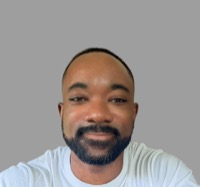
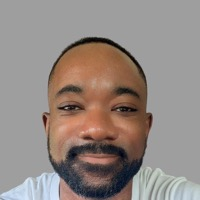
Tighten header spacing and zoom in on headshot
Headshot: re-cropped from the high-res 960x900 original (kept in
/tmp during this session) to the central 700x700 region, then
resized to 200x200. Effective ~30% zoom-in vs the previous frame,
so the face fills more of the rounded-circle visible area. File
size: 8.2KB.

Header CSS:
- .header padding 30px -> 20px (top/bottom)
- .header .btn margin-top 60px -> 24px (the buttons were sitting
  way too far below the social icons)
- .name margin-top 30px -> 0 (name now aligns with image top)
- .desc margin-bottom 15px -> 8px
- .desc1 margin-bottom 15px -> 6px (saves ~27px across the three
  stacked desc1 lines that were the biggest spacing offenders)

Note: .desc1 was already only present in styles.css and absent
from the SCSS source (pre-existing drift, predates this work).
This commit does not widen the gap; Phase 2 will reconcile the
SCSS↔CSS pipeline as part of the visual overhaul.

diff --git a/assets/css/styles.css b/assets/css/styles.css
@@ -123,13 +123,13 @@ a.dotted-link:hover {
 
 /* ======= Header ======= */
 .header {
-  padding: 30px 0;
+  padding: 20px 0;
   background: #f5f5f5;
   border-top: 10px solid #778492;
 }
 
 .header .btn {
-  margin-top: 60px;
+  margin-top: 24px;
   font-weight: bold;
 }
 
@@ -141,7 +141,7 @@ a.dotted-link:hover {
   color: #49515a;
   font-size: 38px;
   margin-bottom: 5px;
-  margin-top: 30px;
+  margin-top: 0;
 }
 
 .header .profile-content .desc {
@@ -150,7 +150,7 @@ a.dotted-link:hover {
   font-weight: 400;
   font-size: 24px;
   margin-top: 0;
-  margin-bottom: 15px;
+  margin-bottom: 8px;
 }
 
 .header .profile-content .desc1 {
@@ -159,7 +159,7 @@ a.dotted-link:hover {
   font-weight: 400;
   font-size: 18px;
   margin-top: 0;
-  margin-bottom: 15px;
+  margin-bottom: 6px;
 }
 
 .header .profile-content .social a {